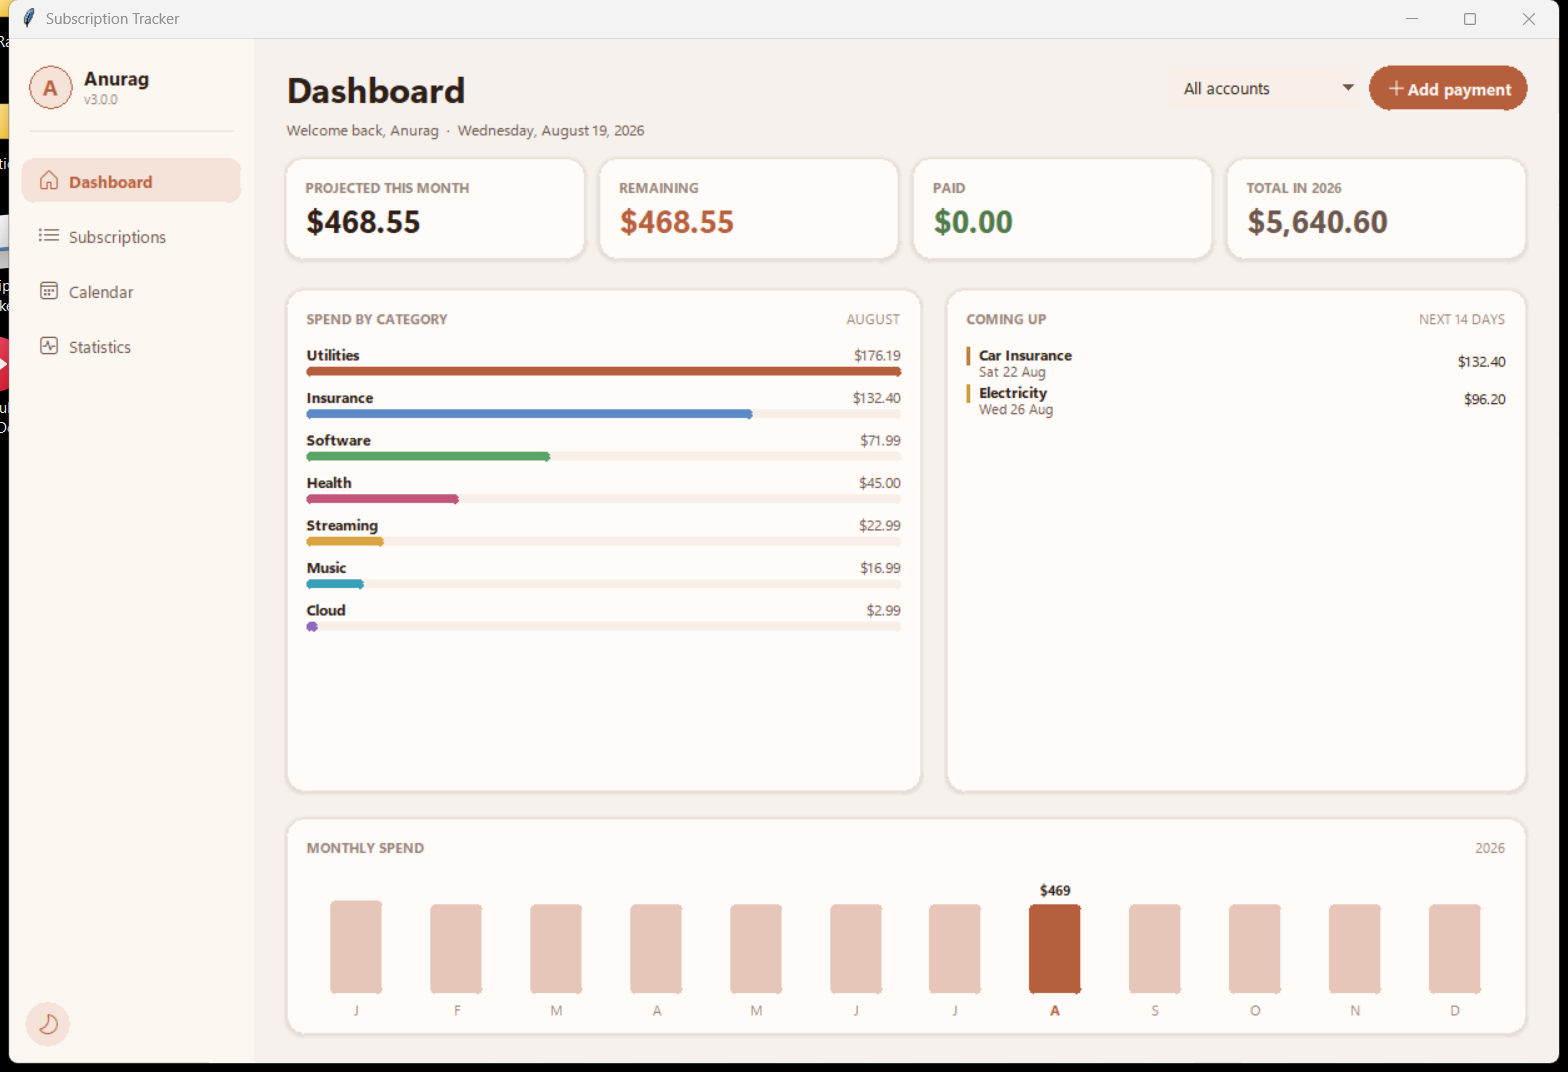
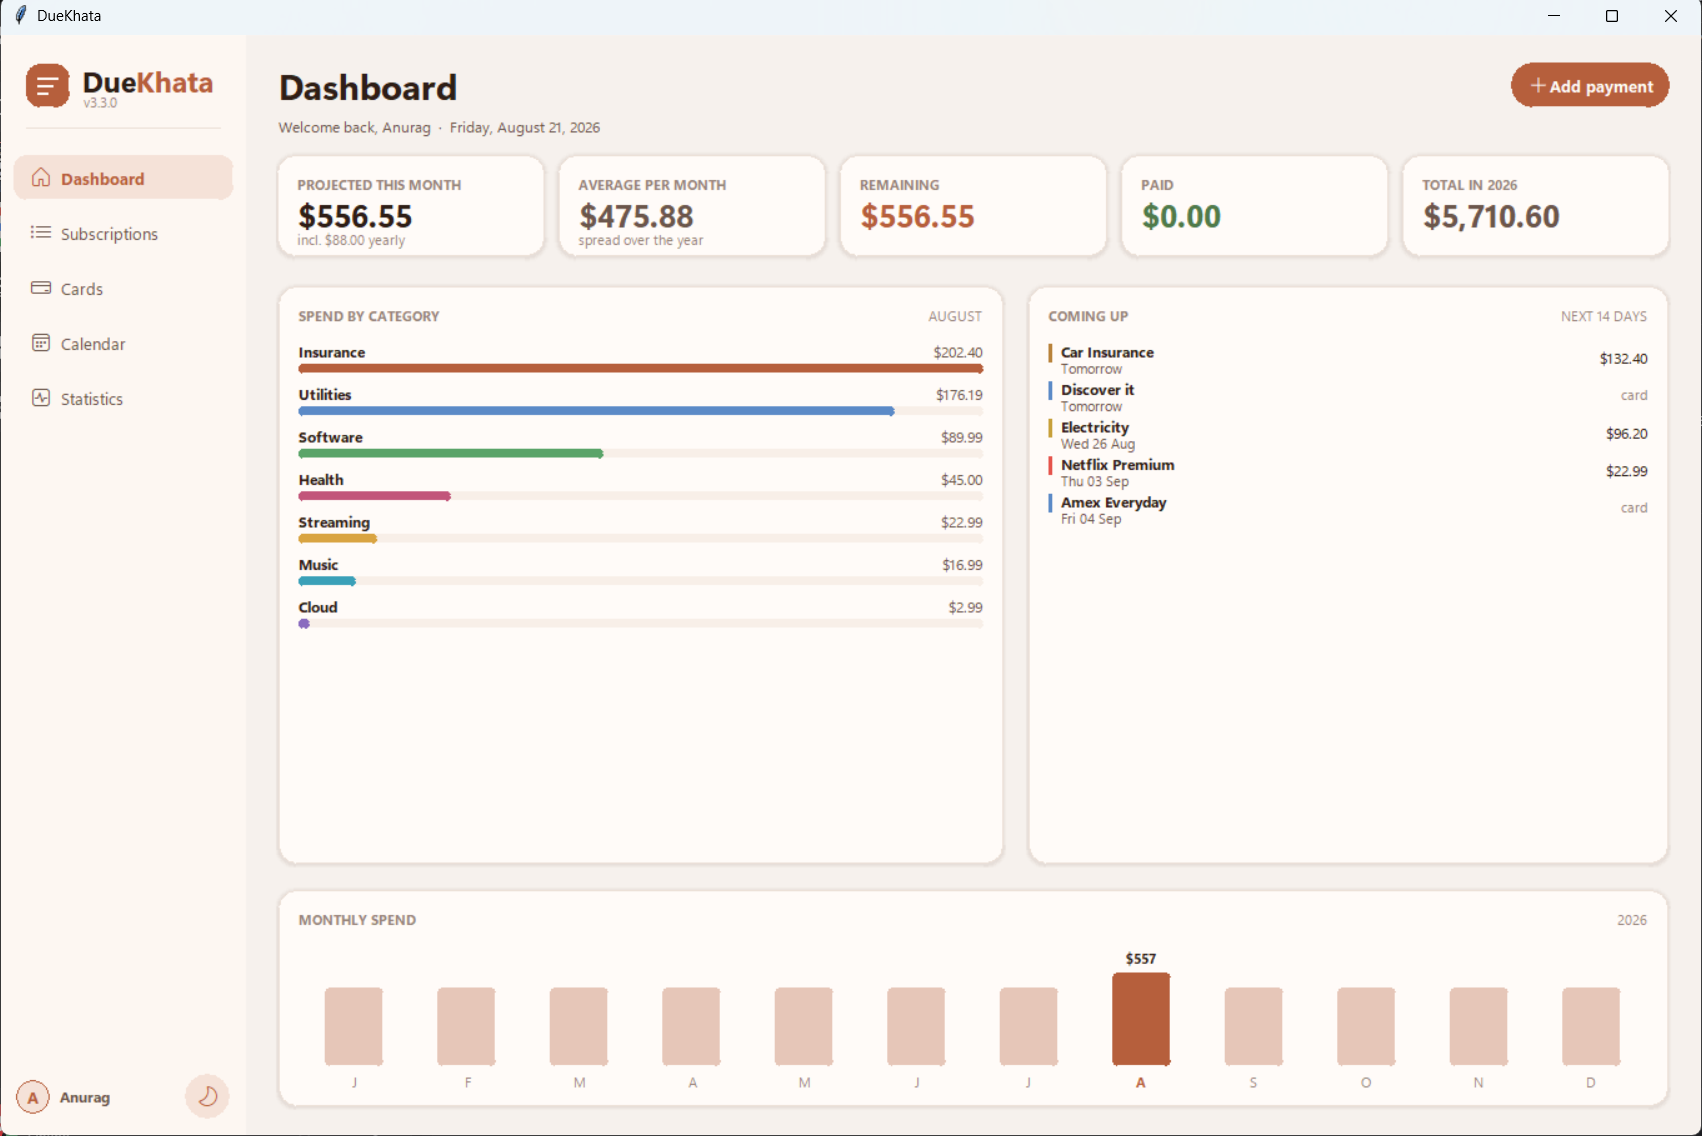
Replace the outdated screenshot
The README still showed a Subscription Tracker window from v3.0.0: the old
name in the title bar, the account filter, four tiles and no Cards.

The new one is taken from v3.3.0 and is cropped to the window's real
visual bounds rather than GetWindowRect, which includes the invisible
resize border and so caught a strip of the desktop down the left edge.

diff --git a/README.md b/README.md
@@ -23,7 +23,7 @@ anything is wrong with it. Fuller notes are in [TESTERS.txt](TESTERS.txt).
 
 Everything is stored locally. There is no account, no server, and no network access of any kind.
 
-![The dashboard, showing monthly totals, spending by category, and upcoming payments](docs/dashboard.png)
+![The DueKhata dashboard: what bills this month and what the subscriptions cost per month on average, spending by category, and what is due in the next fortnight](docs/dashboard.png)
 
 ## Features
 
